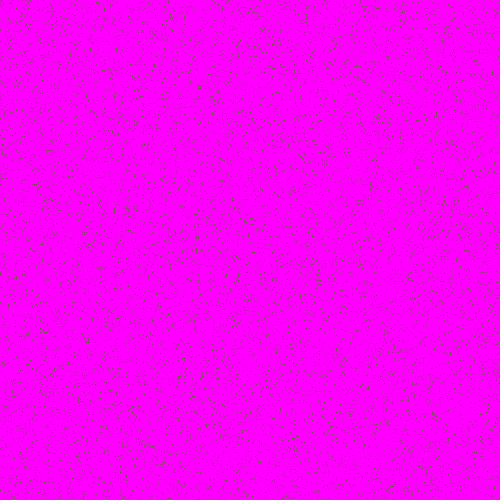
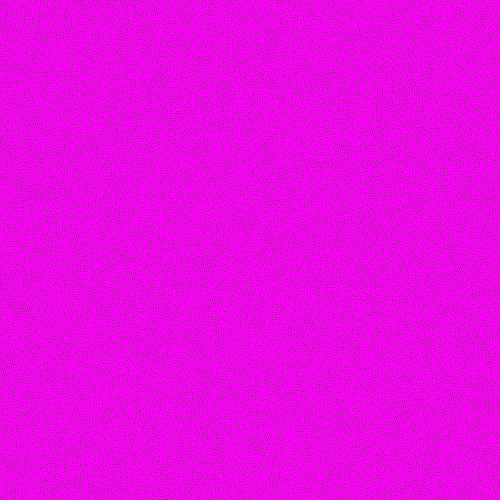
sphere back in, tied to a bool

Changed region(s): [[0.0, 0.0, 1.0, 1.0]]

diff --git a/src/ExampleApp.cpp b/src/ExampleApp.cpp
@@ -21,7 +21,15 @@ using namespace glm;
 ExampleApp::ExampleApp(int argc, char** argv) : VRApp(argc, argv)
 {
 	_turntable.reset(new TurntableManipulator(3, 0.3, 0.5));
-	_turntable->setCenterPosition(vec3(-0.3, 0.8, 0));
+
+	drawingModel = true;
+
+	if (!drawingModel) {
+		_turntable->setCenterPosition(vec3(0, 0, 0));
+	}
+	else {
+		_turntable->setCenterPosition(vec3(-0.3, 0.8, 0));
+	}
 
 	_lastTime = 0.0;
     _curFrameTime = 0.0;
@@ -98,9 +106,15 @@ void ExampleApp::onRenderGraphicsContext(const VRGraphicsState &renderState) {
 		// This load shaders from disk, we do it once when the program starts up.
 		reloadShaders();
 
-		_modelMesh.reset(new Model(modelName, 1.5));
-		_shader.use();
-		pushFurTex();
+
+		if (drawingModel) {
+			_modelMesh.reset(new Model(modelName, 1.5));
+			_shader.use();
+			pushFurTex();
+		}
+		else {
+			setUpSphere();
+		}
 		
     }
 }
@@ -144,7 +158,13 @@ void ExampleApp::onRenderGraphicsScene(const VRGraphicsState &renderState) {
 
 	//_modelMesh->draw(_shader);
 
-	furLengthLoop();
+
+	if (drawingModel) {
+		furLengthLoop();
+	}
+	else {
+		furLengthLoopSphere();
+	}
 }
 
 
@@ -158,6 +178,8 @@ void ExampleApp::reloadShaders()
 	_shader.link();
 	_shader.use();
 }
+
+
 
 void ExampleApp::pushFurTex() {
 	//an array to hold our pixels
@@ -207,7 +229,7 @@ void ExampleApp::pushFurTex() {
 	// Aurum's tex path
 	//tex->save2D("C:\\Users\\mykun\\Documents\\comp465\\code\\465-fur-simulation\\resources\\grey2.png");
 	//beans tex path
-	tex->save2D("D:\\Code\\465\\465-fur-simulation\\resources\\grey2.png");
+	//tex->save2D("D:\\Code\\465\\465-fur-simulation\\resources\\grey2.png");
 
 
 	tex->bind(1);
@@ -220,10 +242,150 @@ glm::vec3 ExampleApp::getPosition(double latitude, double longitude) {
 	return vec3(cos(latitude) * cos(longitude), -sin(latitude), cos(latitude) * sin(longitude));
 }
 
+void ExampleApp::setUpSphere() {
+	const int STACKS = 20;
+	const int SLICES = 40;
+
+	std::vector<Mesh::Vertex> cpuVertexArray;
+	std::vector<int> cpuIndexArray;
+	std::vector<std::shared_ptr<Texture>> textures;
+
+	float radius = 1.0;
+	float pi = glm::pi<float>();
+
+
+	float singleSliceAngle = 2 * pi / SLICES;
+	float singleStackAngle = pi / STACKS;
+	float currSectorAngle, currStackAngle;
+	int count = 0;
+
+	for (int i = 0; i <= STACKS; i++) {
+		currStackAngle = pi / 2 - i * singleStackAngle;
+
+
+		for (int j = 0; j <= SLICES; j++) {
+			currSectorAngle = j * singleSliceAngle;
+			Mesh::Vertex vert;
+			vert.position = getPosition(currStackAngle, currSectorAngle);
+			vert.normal = vert.position / radius;
+
+			//thanks to 
+			//https://math.stackexchange.com/questions/1006177/compensating-for-distortion-when-projecting-a-2d-texture-onto-a-sphere
+
+			double lat = abs(asin(vert.position.z));
+			double dist = 1 - lat / pi * 2;
+			double xProj = cos(lat);
+			float ratio = (xProj == 0) ? 1 : (float)(dist / xProj);
+			float u = (vert.position.x * ratio + 1) / 2;
+			float v = (vert.position.y * ratio + 1) / 2;
+
+			vert.texCoord0 = glm::vec2(u, v);
+
+			cpuVertexArray.push_back(vert);
+		}
+	}
+
+	int k1, k2;
+	for (int i = 0; i < STACKS; i++) {
+		// Coordinates for each corner of a sector in a sphere
+		k1 = i * (SLICES + 1);
+		k2 = k1 + SLICES + 1;
+
+		for (int j = 0; j < SLICES; j++, k1++, k2++) {
+
+			// If not the first sector
+			if (i != 0) {
+				cpuIndexArray.push_back(k1);
+				cpuIndexArray.push_back(k2);
+				cpuIndexArray.push_back(k1 + 1);
+			}
+
+			// If not the last sector
+			if (i != (STACKS)) {
+				cpuIndexArray.push_back(k1 + 1);
+				cpuIndexArray.push_back(k2);
+				cpuIndexArray.push_back(k2 + 1);
+			}
+
+		}
+	}
+
+	const int numVertices = cpuVertexArray.size();
+	const int cpuVertexByteSize = sizeof(Mesh::Vertex) * numVertices;
+	const int cpuIndexByteSize = sizeof(int) * cpuIndexArray.size();
+
+	//an array to hold our pixels
+
+	int width = 500;
+	int height = 500;
+	int totalPixels = width * height;
+
+	unsigned char colors[1000000];
+
+	for (int i = 0; i < 1000000; i += 4) {
+		fillByteInByteArray(colors, i, 0, 0, 0, 0);
+	}
+
+	////compute the number of opaque pixels = nr of hair strands
+	int nrStrands = (int)(furCoverage * totalPixels);
+
+	int nrOfLayers = 400;
+
+	int strandsPerLayer = nrStrands / nrOfLayers;
+
+
+	////fill texture with opaque pixels
+	for (int i = 0; i < nrStrands; i++)
+	{
+		int x, y;
+
+		x = rand() % height;
+		y = rand() % width;
+
+		//compute max layer
+		int max_layer = i / strandsPerLayer;
+		//normalize into [0..1] range
+		float max_layer_n = (float)max_layer / (float)nrOfLayers;
+
+		if (checkNeighbors(colors, x, y, width)) {
+			fillByteInByteArray(colors, (x * width + y) * 4, 95, 80, 54, (max_layer_n * 255));
+		}
+
+
+
+	}
+
+
+	//coulumn major order
+	std::shared_ptr<Texture> tex = Texture::createFromMemory("testName", colors, GL_UNSIGNED_BYTE, GL_RGBA, GL_RGBA8, GL_TEXTURE_2D, width, height, 1);
+
+	// Added Jonas' texture path
+	//tex->save2D("D:\\comp465\\code\\465-fur-simulation\\resources\\grey2.png");
+	// Aurum's tex path
+	//tex->save2D("C:\\Users\\mykun\\Documents\\comp465\\code\\465-fur-simulation\\resources\\grey2.png");
+	//beans tex path
+	//tex->save2D("D:\\Code\\465\\465-fur-simulation\\resources\\grey2.png");
+
+	textures.push_back(tex);
+	tex->bind(1);
+	_shader.setUniform("furTex", 1);
+
+	sphere_mesh.reset(new Mesh(textures, GL_TRIANGLES, GL_STATIC_DRAW,
+		cpuVertexByteSize, cpuIndexByteSize, 0, cpuVertexArray,
+		cpuIndexArray.size(), cpuIndexByteSize, &cpuIndexArray[0]));
+}
+
 void ExampleApp::furLengthLoop() {
 	for (int i = 0; i < numLayers; i++) {
 		_shader.setUniform("CurrentLayer", ((float)i) / ((float)numLayers));
 		_modelMesh->draw(_shader);
+	}
+}
+
+void ExampleApp::furLengthLoopSphere() {
+	for (int i = 0; i < numLayers; i++) {
+		_shader.setUniform("CurrentLayer", ((float)i) / ((float)numLayers));
+		sphere_mesh->draw(_shader);
 	}
 }
 

diff --git a/src/ExampleApp.h b/src/ExampleApp.h
@@ -60,6 +60,8 @@ private:
 
     string modelName;
     int numLayers;
+
+    bool drawingModel;
     
     float furCoverage;
     float maxHairLength;
@@ -71,15 +73,14 @@ private:
 
     std::unique_ptr<Model> _modelMesh; // for the bunny
     std::shared_ptr<TurntableManipulator> _turntable;
+    std::shared_ptr<basicgraphics::Mesh> sphere_mesh;
 
     std::shared_ptr<Texture> tex;
 
 
-    bool drawingModel;
-
     glm::mat4 rotation;
 
-
+    void setUpSphere();
     void pushFurTex();
 
     // Given latitude and longitude, calculate 3D position
@@ -88,6 +89,7 @@ private:
    
     void fillByteInByteArray(unsigned char* bytes, int index, unsigned char r, unsigned char g, unsigned char b, unsigned char a);
     void furLengthLoop();
+    void furLengthLoopSphere();
 
     bool checkNeighbors(unsigned char* bytes, int x, int y, int width);
     //basicgraphics::Texture FillFurTexture(basicgraphics::Texture furTexture, float density);
